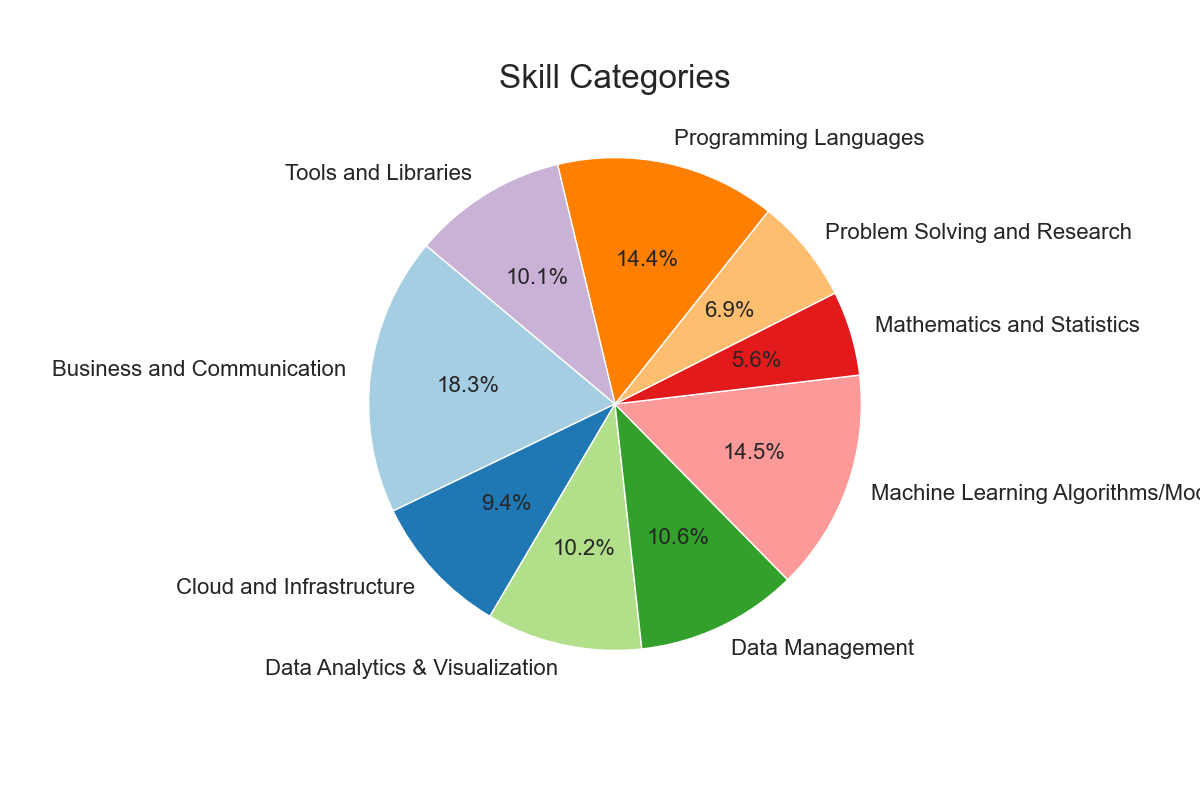
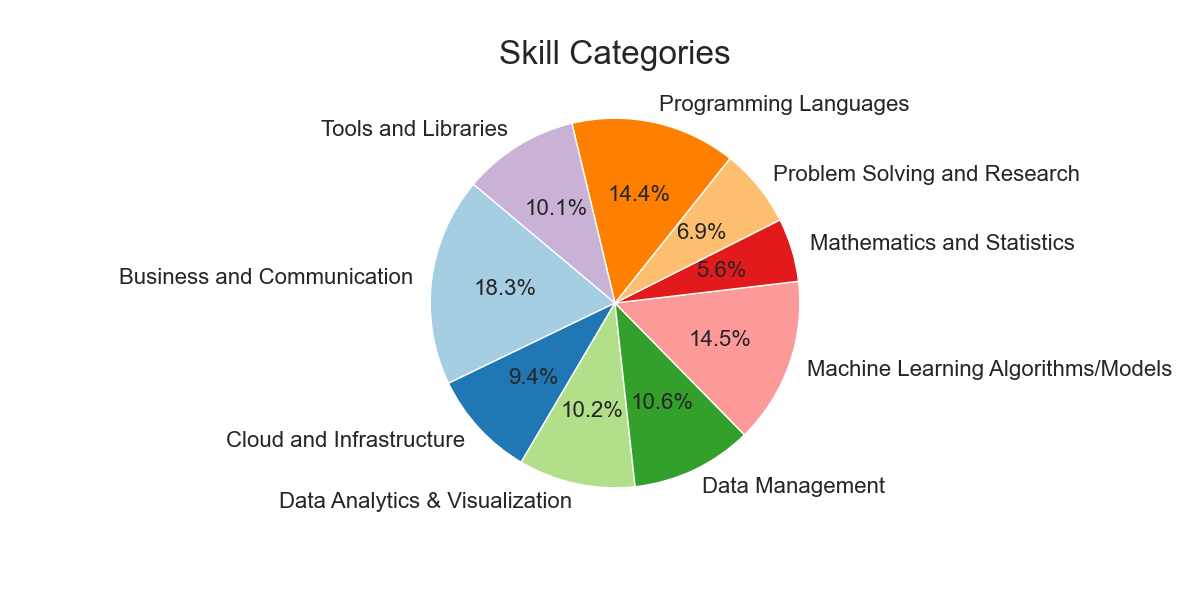
Changed pie chart figure sizes

Changed region(s): [[0.0308, 0.15, 1.0, 0.87], [0.4008, 0.06, 0.6167, 0.12]]

diff --git a/src/analysis/visualization.py b/src/analysis/visualization.py
@@ -44,7 +44,7 @@ def visualize_hard_vs_soft(skills_count_fn, output_fn):
     category_counts = skill_counts.groupby('Type')['Count'].sum()
     
     # Create the pie chart
-    plt.figure(figsize=(12, 8))
+    plt.figure(figsize=(12, 6))
     plt.pie(category_counts, labels=category_counts.index, autopct='%1.1f%%', colors=['lightblue', 'lightcoral'], textprops={'fontsize': 16})
     plt.title('Hard vs. Soft Skills', fontsize=24)
     
@@ -75,7 +75,7 @@ def visualize_category_pie(skill_category_fn, output_fn):
 
     # Create the pie chart
     colors = plt.cm.Paired(range(len(category_counts)))
-    plt.figure(figsize=(12, 8))
+    plt.figure(figsize=(12, 6))
     plt.pie(category_counts, labels=category_counts.index, autopct='%1.1f%%', startangle=140, colors=colors, textprops={'fontsize': 16})
     plt.title('Skill Categories', fontsize=24)
     
